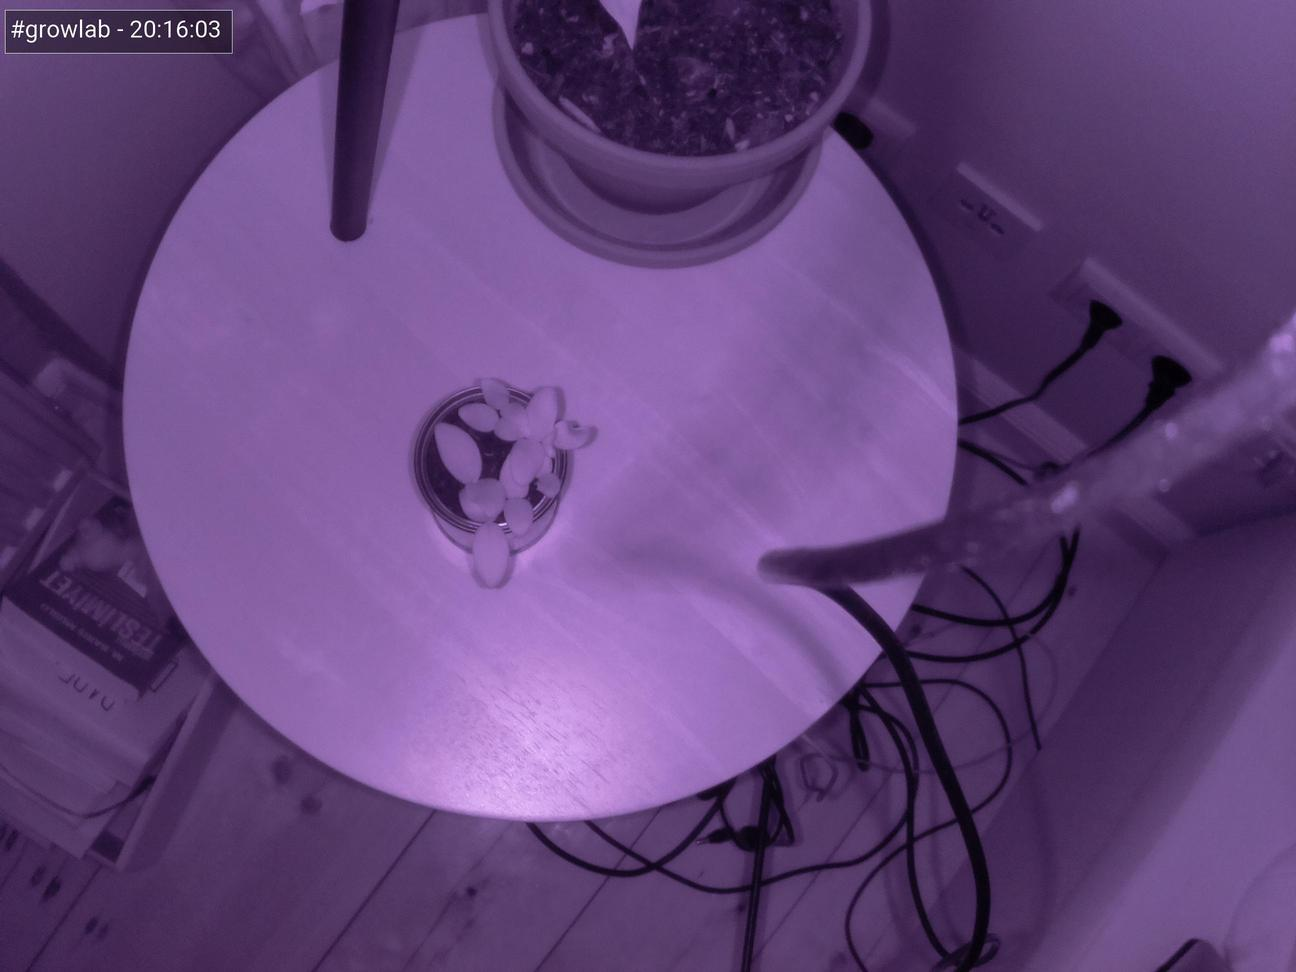
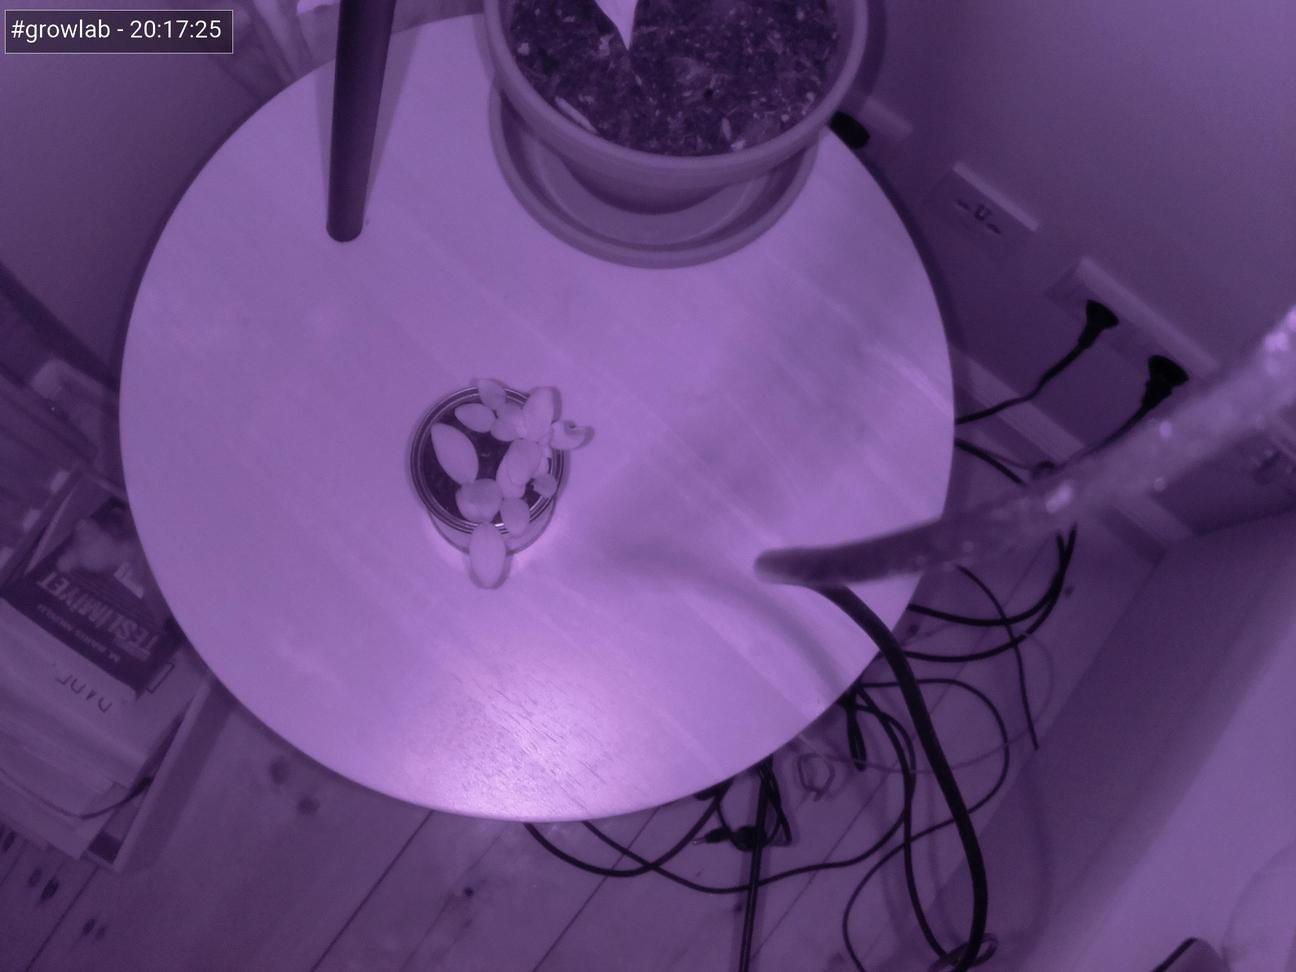
Update images at Sat Jul 31 20:17:34 BST 2021

diff --git a/docs/index.html b/docs/index.html
@@ -47,7 +47,7 @@
                         <tbody>
                             <tr>
                                 <td>Time</td>
-                                <td>20:16:03</td>
+                                <td>20:17:25</td>
                             </tr>
                             <tr>
                                 <td>Temperature</td>
@@ -67,7 +67,7 @@
 
                 <h5>Latest image</h5>
                 <div style="width: 85%;">
-                            <img class="figure-img img-fluid rounded" src="./preview.jpg?uid=1627758971.9813304">
+                            <img class="figure-img img-fluid rounded" src="./preview.jpg?uid=1627759053.7015533">
                 </div>
             </div>
         </div>
